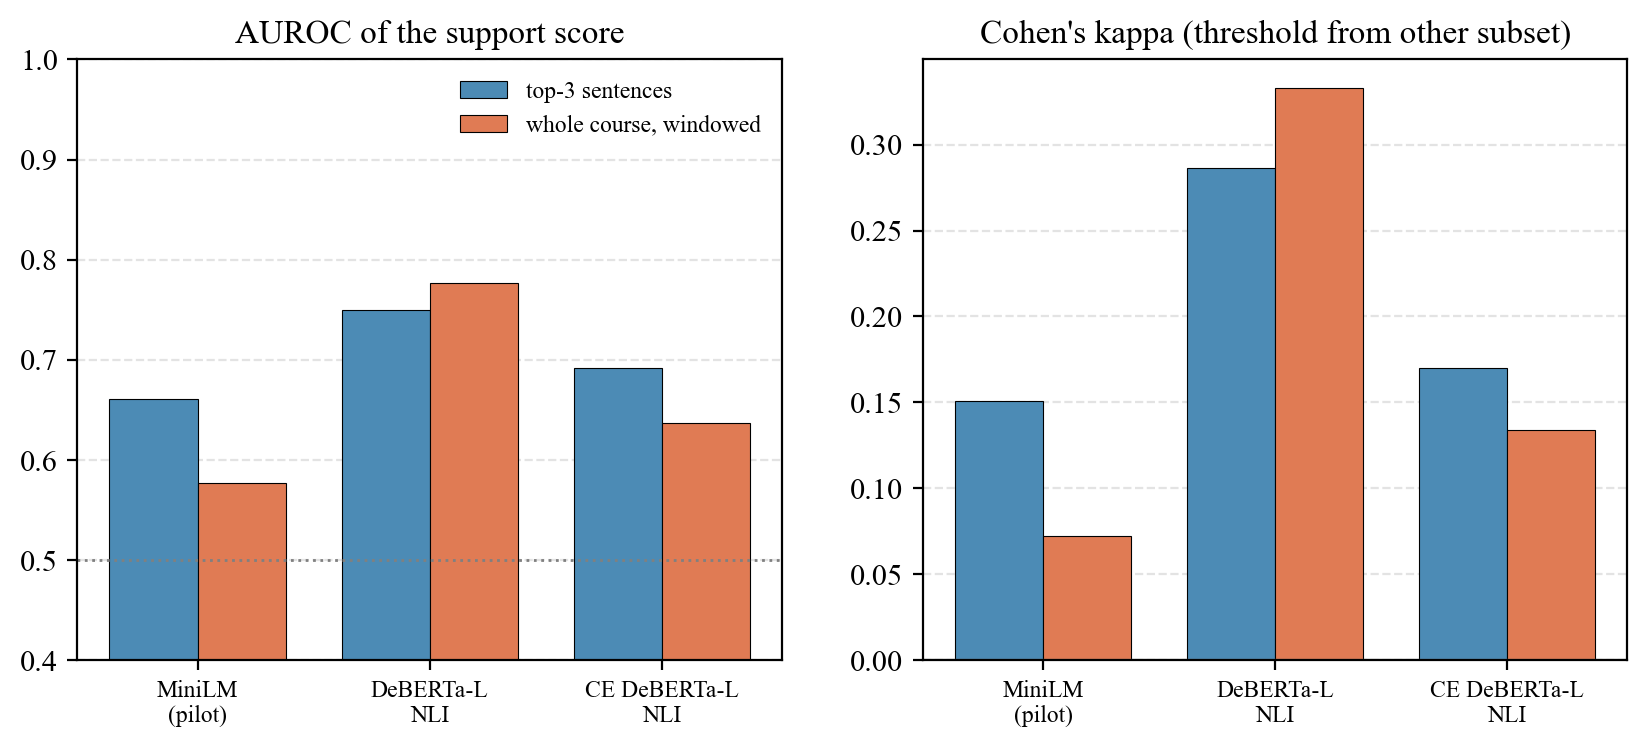
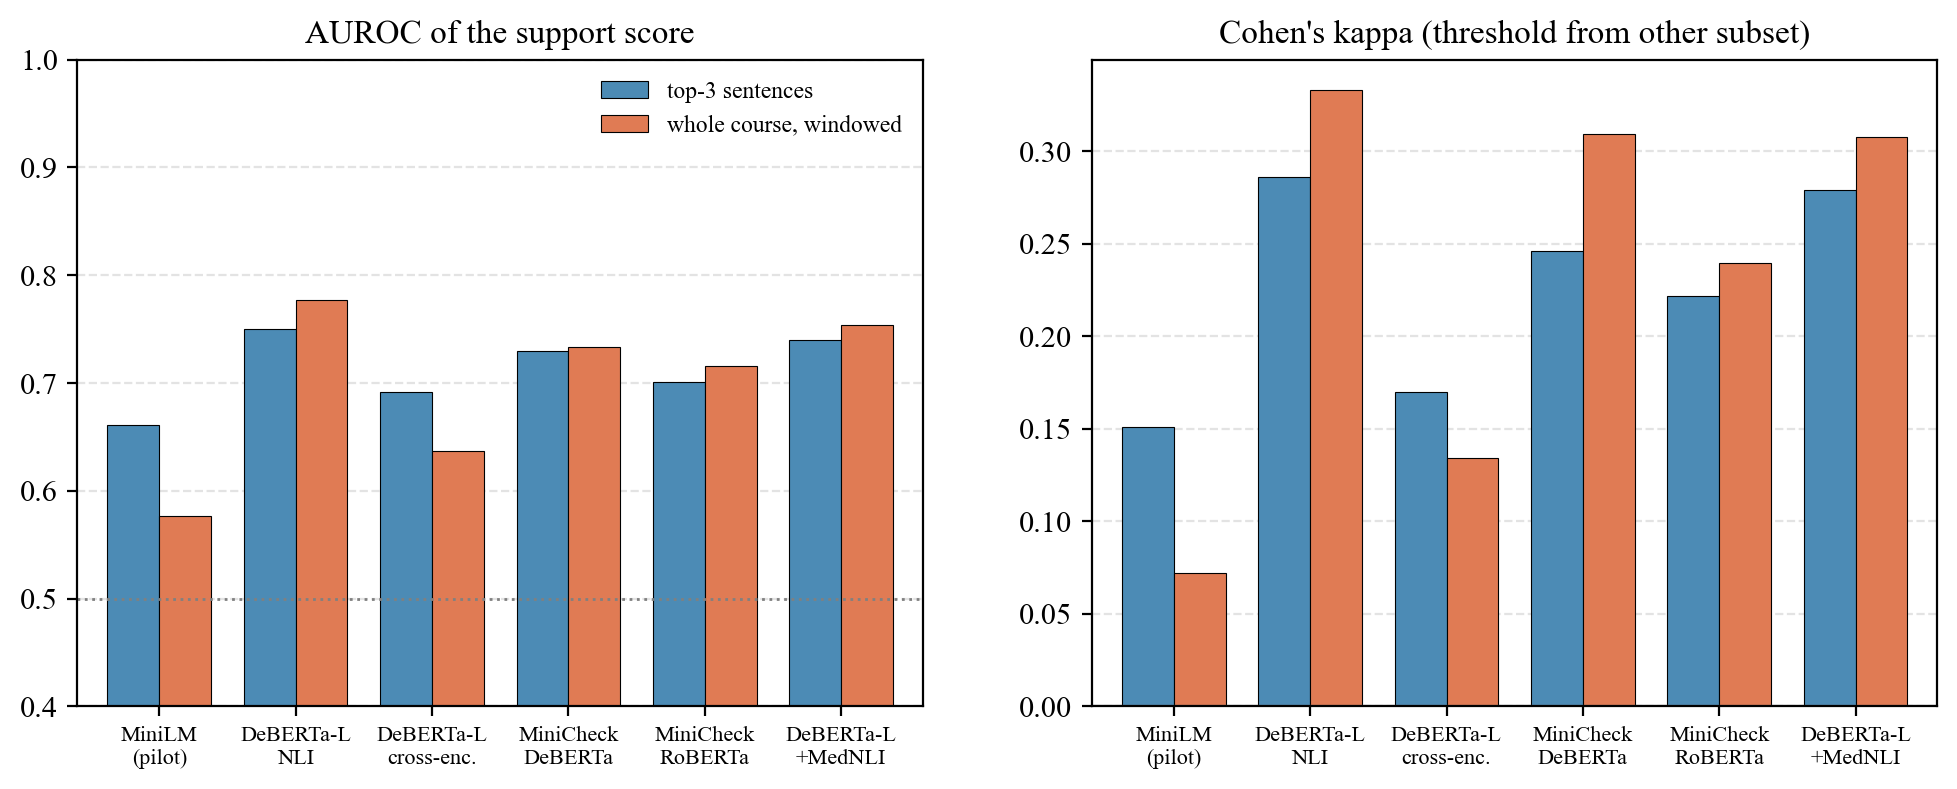
Judge selection: MedNLI-adapted judge scored (kappa 0.31, below the unadapted 0.33); Chapters 6 and 8 interpret it

diff --git a/thesis/ch_judge.py b/thesis/ch_judge.py
@@ -79,18 +79,42 @@ def blocks(R: Results) -> list:
     b += [("h2", "6.3 Adaptation to Clinical Language with MedNLI")]
     if ftj is not None:
         mr = jc[(jc.judge == "mednli_deberta_large") & (jc.group == "all")]
+        lr_txt = f"{ftj['lr']:.0e}".replace("e-0", "e-")
+        epochs_txt = "one epoch" if ftj["epochs"] == 1 else f"{ftj['epochs']} epochs"
+        opt_txt = "Adafactor" if ftj.get("optimizer") == "adafactor" else "AdamW"
+        zs = f" from {pct(ftj['zero_shot_dev_accuracy'])} to" if "zero_shot_dev_accuracy" in ftj else " to"
+        zst = f" from {pct(ftj['zero_shot_test_accuracy'])} to" if "zero_shot_test_accuracy" in ftj else " to"
+        hours = ftj.get("train_minutes", 0) / 60
+        mdoc = mr[mr["mode"] == "doc"]; mtop = mr[mr["mode"] == "top3"]
+        agree = (f" Against the expert annotations the adapted model reaches an AUROC of {f2(mdoc.auroc.iloc[0]) if len(mdoc) else '—'} with "
+                 f"whole-course evidence and {f2(mtop.auroc.iloc[0]) if len(mtop) else '—'} with top-3 sentence evidence, with a kappa of "
+                 f"{f2(mr.kappa.max())} at best ([[tab:judges]])." if len(mr) else " Its agreement with the experts is reported in [[tab:judges]].")
+        bdoc = jc[(jc.judge == "deberta_large_nli") & (jc["mode"] == "doc") & (jc.group == "all")]
+        comp = ""
+        if len(mdoc) and len(bdoc):
+            bd, md = bdoc.iloc[0], mdoc.iloc[0]
+            comp = (f" Compared with the same model before adaptation (AUROC {f2(bd.auroc)}, kappa {f2(bd.kappa)}, precision {f2(bd.precision)}, "
+                    f"recall {f2(bd.recall)}), the adapted model flags {'fewer' if md.flag_rate < bd.flag_rate else 'more'} sentences ({pct0(md.flag_rate)} "
+                    f"versus {pct0(bd.flag_rate)}, where the experts flag {pct0(md.expert_rate)}), "
+                    f"{'keeps the same precision' if abs(md.precision - bd.precision) < 0.005 else ('gains' if md.precision > bd.precision else 'loses') + f' {abs(md.precision - bd.precision):.2f} in precision'} "
+                    f"and {'loses' if md.recall < bd.recall else 'gains'} {abs(md.recall - bd.recall):.2f} in "
+                    f"recall, so that its kappa is {'lower' if md.kappa < bd.kappa else 'higher'}. A nine-point gain on MedNLI, whose hypotheses are short "
+                    f"clinical statements paired with a single note sentence, therefore did not transfer to the expert task, whose sentences are "
+                    f"patient-facing paraphrases that draw on several parts of a hospital course. This points to the granularity of the comparison, "
+                    f"not clinical vocabulary, as the factor that limits agreement with the experts.")
         b += [P(f"The strongest general model was fine-tuned on MedNLI, 11,232 clinician-written premise and hypothesis pairs from "
-                f"MIMIC-III notes (Section 3.4), for {ftj['epochs']} epoch(s) with the {'Adafactor' if ftj.get('optimizer') == 'adafactor' else 'AdamW'} "
-                f"optimizer, learning rate {ftj['lr']} and an effective batch size of {ftj['batch']} (Section 4.10). Its MedNLI development accuracy rose to {pct(ftj['dev_accuracy'])} and its test accuracy to "
-                f"{pct(ftj['test_accuracy'])}."
-                + (f" Against the expert annotations the adapted model reaches an AUROC of {f2(mr[mr['mode']=='doc'].auroc.iloc[0]) if len(mr[mr['mode']=='doc']) else '—'} "
-                   f"(whole course) and {f2(mr[mr['mode']=='top3'].auroc.iloc[0]) if len(mr[mr['mode']=='top3']) else '—'} (top-3), with kappa "
-                   f"{f2(mr.kappa.max())} at best ([[tab:judges]])." if len(mr) else " Its agreement with the experts is reported in [[tab:judges]]."))]
+                f"MIMIC-III notes (Section 3.4), for {epochs_txt} with the {opt_txt} optimizer, a learning rate of {lr_txt} and an "
+                f"effective batch size of {ftj['batch']} (Section 4.10), which took {hours:.1f} hours on the laptop's GPU while it was "
+                f"shared with the language-model server. Its MedNLI development accuracy rose{zs} {pct(ftj['dev_accuracy'])} and its test "
+                f"accuracy{zst} {pct(ftj['test_accuracy'])}." + agree + comp)]
     else:
         b += [P("The MedNLI adaptation is described in Section 4.10; its results are added to [[tab:judges]] when the fine-tuning run completes.")]
     b += [("h2", "6.4 Decision")]
     b += [P(f"By the pre-specified rule the judge of the main study is {JUDGE_NAMES.get(best.judge, best.judge)} with "
-            f"{MODE_PHRASE.get(best['mode'], best['mode'])} and a support threshold of {best.tau_from_other_subset:.2f}. Its agreement with medical experts is "
+            f"{MODE_PHRASE.get(best['mode'], best['mode'])} and a support threshold of {best.tau_from_other_subset:.2f}."
+            + (f" The MedNLI-adapted model was not selected because its best kappa ({f2(jc[(jc.judge == 'mednli_deberta_large') & (jc.group == 'all')].kappa.max())}) "
+               f"is below that of the unadapted model." if ftj is not None and best.judge != "mednli_deberta_large" and (jc.judge == "mednli_deberta_large").any() else "")
+            + f" Its agreement with medical experts is "
             f"moderate rather than high: a kappa of {f2(best.kappa)} means substantial disagreement remains, its precision of "
             f"{f2(best.precision)} means that roughly {100 - round(100 * best.precision)} of every 100 sentences it flags were not "
             f"flagged by the experts, and its recall of {f2(best.recall)} means that it misses about {100 - round(100 * best.recall)} of "

diff --git a/thesis/ch8_9.py b/thesis/ch8_9.py
@@ -4,7 +4,7 @@ import pandas as pd
 from scipy.stats import spearmanr
 
 from results_loader import Results, f3, f2, pct, pct0, fp, fpn, signed, COND_NAME
-from mimic_results import Mimic
+from mimic_results import Mimic, _csv
 
 FIG = "results"
 NAME = {"E0": "E0 zero-context LLM", "E1": "E1 RAG (excerpts only)", "E1b": "E1b RAG (note + excerpts)", "E3": "E3 RAG + CoVe", "E2": "E2 extractive"}
@@ -149,6 +149,24 @@ def blocks(R: Results) -> list:
             "off-the-shelf NLI models could not rank summaries by correctness [[cite:falke2019]]; the present study shows that "
             "the warning still applies to small models in the clinical domain six years later, even after the retrieval and "
             "aggregation improvements that made SummaC and AlignScore successful on news data [[cite:laban2022,zha2023]].")]
+    jc = _csv("judge_candidates.csv")
+    if jc is not None:
+        A = jc[jc.group == "all"].set_index(["judge", "mode"])
+        def jrow(j, m):
+            return A.loc[(j, m)] if (j, m) in A.index else None
+        mini, deb, med = jrow("minilm_nli", "top3"), jrow("deberta_large_nli", "doc"), jrow("mednli_deberta_large", "doc")
+        ftj = M.finetune_summary()
+        b += [P(f"The judge selection study of Chapter 6 sharpens this diagnosis. Replacing the six-layer cross-encoder with a 24-layer "
+                f"DeBERTa-v3-large model trained on five NLI and fact-verification datasets raised kappa from {f2(mini.kappa)} to {f2(deb.kappa)} and "
+                f"AUROC from {f2(mini.auroc)} to {f2(deb.auroc)} on all sentences, and letting the model see the whole hospital course in windows "
+                f"was better than three retrieved sentences; the second cause, capacity, is therefore real and large."
+                + (f" Adapting the same model to clinical language with MedNLI raised its MedNLI accuracy from {pct(ftj['zero_shot_dev_accuracy'])} to "
+                   f"{pct(ftj['dev_accuracy'])} but {'lowered' if med.kappa < deb.kappa else 'raised'} its agreement with the experts (kappa {f2(med.kappa)} versus "
+                   f"{f2(deb.kappa)}), which argues that clinical vocabulary is not what limits the judge on this task; the granularity mismatch is."
+                   if med is not None and ftj is not None and "zero_shot_dev_accuracy" in ftj else "")
+                + f" Even the selected judge flags {pct0(deb.flag_rate)} of sentences where the experts flag {pct0(deb.expert_rate)}, agrees with them at a "
+                f"kappa of {f2(deb.kappa)} and misses {100 - round(100 * deb.recall)} of every 100 expert-flagged sentences, so the main study's rates are "
+                f"estimates from a moderately valid instrument, and Chapter 7 reads them as such.")]
     b += [H2("8.3 Interpreting the Effects of Retrieval and Verification")]
     b += [P(f"The RAG effect must be read in the light of Sections 5.4 and 5.5. It is modest (a {rel(t10c)} relative reduction of "
             f"CR, d(z) = {f2(t10c.d_z)}), it disappears when the judge is made more conservative, and part of the change it "

diff --git a/analyze.py b/analyze.py
@@ -328,16 +328,17 @@ def fig_taxonomy(tc):
 
 def fig_judges(jc):
     a = jc[jc.group == "all"].copy()
-    names = {"minilm_nli": "MiniLM\n(pilot)", "deberta_large_nli": "DeBERTa-L\nNLI", "ce_deberta_large_nli": "CE DeBERTa-L\nNLI", "minicheck_deberta": "MiniCheck\nDeBERTa-L",
-             "minicheck_roberta": "MiniCheck\nRoBERTa-L", "mednli_deberta_large": "DeBERTa-L\n+ MedNLI"}
+    names = {"minilm_nli": "MiniLM\n(pilot)", "deberta_large_nli": "DeBERTa-L\nNLI", "ce_deberta_large_nli": "DeBERTa-L\ncross-enc.", "minicheck_deberta": "MiniCheck\nDeBERTa",
+             "minicheck_roberta": "MiniCheck\nRoBERTa", "mednli_deberta_large": "DeBERTa-L\n+MedNLI"}
     order = [k for k in names if k in set(a.judge)]
-    fig, axes = plt.subplots(1, 2, figsize=(10, 3.9))
+    fig, axes = plt.subplots(1, 2, figsize=(12, 4.2))
     for ax, metric, title in zip(axes, ("auroc", "kappa"), ("AUROC of the support score", "Cohen's kappa (threshold from other subset)")):
         x = np.arange(len(order)); w = 0.38
         for i, (mode, colr) in enumerate((("top3", "#4C8BB5"), ("doc", "#E07B54"))):
             vals = [a[(a.judge == k) & (a["mode"] == mode)][metric].iloc[0] if len(a[(a.judge == k) & (a["mode"] == mode)]) else np.nan for k in order]
             ax.bar(x + (i - 0.5) * w, vals, w, color=colr, label={"top3": "top-3 sentences", "doc": "whole course, windowed"}[mode], edgecolor="black", lw=0.4)
-        ax.set_xticks(x); ax.set_xticklabels([names[k] for k in order], fontsize=8.5); ax.set_title(title); ax.yaxis.grid(True, ls="--", alpha=0.35); ax.set_axisbelow(True)
+        ax.set_xticks(x); ax.set_xticklabels([names[k] for k in order], fontsize=8); ax.set_title(title); ax.yaxis.grid(True, ls="--", alpha=0.35); ax.set_axisbelow(True)
+        ax.set_xlim(-0.6, len(order) - 0.4)
         if metric == "auroc":
             ax.axhline(0.5, color="grey", ls=":", lw=1); ax.set_ylim(0.4, 1.0)
         else:

diff --git a/finetune_mednli.py b/finetune_mednli.py
@@ -100,7 +100,8 @@ def main():
     mk = lambda rows, shuffle: DataLoader(PairDS(rows, tok, args.max_len, label2id), batch_size=args.batch, shuffle=shuffle,
                                           collate_fn=lambda b: collate(b, tok, args.max_len))
     tr, dv, te = mk(train, True), mk(dev, False), mk(test, False)
-    print(f"zero-shot dev accuracy: {evaluate(model, dv):.4f}  test: {evaluate(model, te):.4f}", flush=True)
+    zs_dev, zs_test = evaluate(model, dv), evaluate(model, te)
+    print(f"zero-shot dev accuracy: {zs_dev:.4f}  test: {zs_test:.4f}", flush=True)
 
     if args.freeze_embeddings:
         # freeze the 128k-token embedding matrix AND the embedding LayerNorm: on the MPS backend (torch 2.8) freezing the
@@ -142,7 +143,7 @@ def main():
             best = acc_dev; model.save_pretrained(out); tok.save_pretrained(out)
             json.dump(dict(base=args.base, epochs=ep + 1, dev_accuracy=acc_dev, test_accuracy=acc_test, lr=args.lr, optimizer=args.optimizer,
                            batch=args.batch * accum, micro_batch=args.batch, grad_accum=accum, freeze_embeddings=args.freeze_embeddings,
-                           train_minutes=round((time.time() - t0) / 60, 1)),
+                           train_minutes=round((time.time() - t0) / 60, 1), zero_shot_dev_accuracy=zs_dev, zero_shot_test_accuracy=zs_test),
                       open(out / "mednli_finetune_summary.json", "w"), indent=1)
             print(f"  saved to {out}", flush=True)
     print("done")

diff --git a/thesis/mimic_results.py b/thesis/mimic_results.py
@@ -78,6 +78,12 @@ class Mimic:
     def rel(t):
         return f"{abs(t.rel_change_mean):.0f} percent" if t is not None and not np.isnan(t.rel_change_mean) else "—"
 
+    @staticmethod
+    def finetune_summary():
+        import json
+        f = Path.home() / "Desktop" / "Thesis" / "models" / "mednli-deberta-v3-large" / "mednli_finetune_summary.json"
+        return json.load(open(f)) if f.exists() else None
+
     def judge_name(self):
         return JUDGE_NAMES.get(self.judge, self.judge or "—")
 
